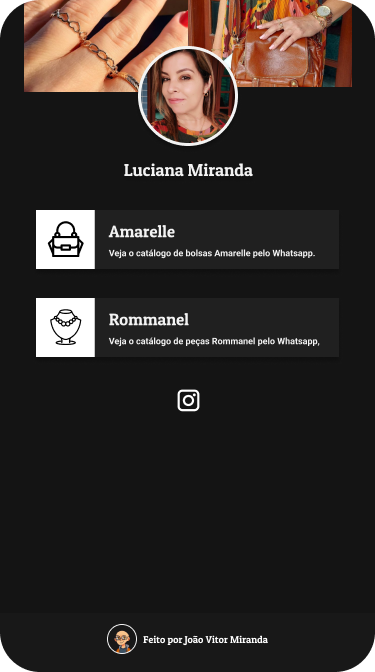
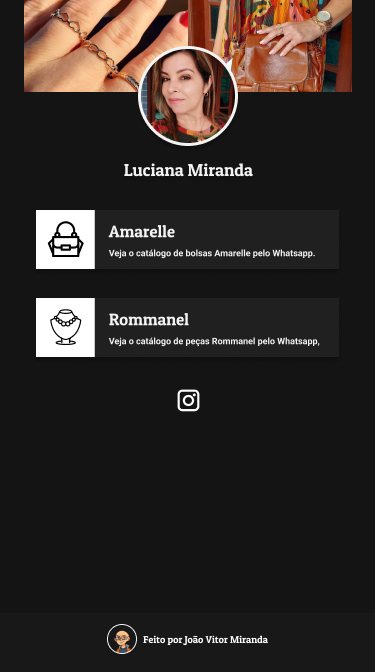
Responsive for Tablet and Desktop

diff --git a/style.css b/style.css
@@ -47,6 +47,7 @@ h1 {
     color: #F3F3F3;
     font-size: 18px;
     font-weight: 200;
+    text-shadow: 0px 4px 4px rgba(0, 0, 0, 0.25);
 }
 
 /* NAV */
@@ -65,6 +66,7 @@ a {
     display: flex;
     width: 303px;
     height: 59px;
+    filter: drop-shadow(0px 4px 4px rgba(0, 0, 0, 0.25));
 }
 
 .amarelle-link {
@@ -73,7 +75,7 @@ a {
 
 .icon-box {
     width: 59px;
-    height: 59px;
+    height: 100%;
     background-color: white;
     display: flex;
     justify-content: center;
@@ -87,7 +89,7 @@ a {
 
 .text-box {
     width: 246px;
-    height: 59px;
+    height: 100%;
     background-color: #202020;
     display: flex;
     flex-direction: column;
@@ -151,4 +153,86 @@ address {
     font-size: 10px;
     font-weight: 200;
     margin-left: 6px;
+}
+
+/* MEDIA QUERY FOR TABLET AND DESKTOP */
+@media (min-width: 550px) {
+    
+    /* HEADER */
+    .background-image-01, .background-image-02 {
+        width: 246px;
+        height: 138px;
+    }
+
+    .profile-picture {
+        width: 139px;
+        height: 139px;
+        top: 69px;
+        border: 4.17px solid #F3F3F3;
+    }
+
+    h1 {
+        margin-top: 83px;
+        font-size: 23.7782px;
+        font-weight: 200;
+    }
+
+    /* NAV */
+    .amarelle-link, .rommanel-link {
+        width: 414.82px;
+        height: 80.77px;
+    }
+
+    .icon-box {
+        width: 80.47px;
+    }
+
+    .purse-icon, .necklace-icon {
+        width: 48.86px;
+        height: 49.04px;
+    }
+
+    .text-box {
+        width: 337.22px;
+    }
+
+    .text {
+        padding-left: 22.03px;
+        padding-top: 15.39px;
+    }
+
+    #p1, #p3 {
+        font-size: 22.9924px;
+        margin-bottom: 10.58px;
+    }
+
+    #p2, #p4 {
+        font-size: 12.3214px;
+    }
+
+    .amarelle-link {
+        margin-bottom: 38.23px;
+    }
+
+    /* FOOTER */
+    .instagram-logo {
+        width: 62.98px;
+        height: 62.98px;
+    }
+
+    /* ADDRESS */
+    address {
+        height: 94.4px;
+    }
+
+    .authors-image {
+        width: 48px;
+        height: 48px;
+        border: 1.6px solid #F3F3F3;
+    }
+
+    #credits {
+        font-size: 16.0819px;
+        margin-left: 9.6px;
+    }
 }

diff --git a/index.html b/index.html
@@ -31,7 +31,7 @@
         </header>
 
         <nav class="links">
-            <a class="amarelle-link" href="">
+            <a class="amarelle-link" href="https://wa.me/message/DPXQJGOVG3XSP1">
                 <div class="icon-box">
                     <img class="purse-icon" src="images/purse-icon.png" alt="">
                 </div>
@@ -39,12 +39,12 @@
                 <div class="text-box">
                     <div class="text">
                         <p id="p1">Amarelle</p>
-                        <p id="p2">Veja o catálogo de bolsas Amarelle pelo Whatsapp.</p>
+                        <p id="p2">Peça os modelos de bolsas Amarelle pelo Whatsapp.</p>
                     </div>
                 </div>
             </a>
             
-            <a class="rommanel-link" href="">
+            <a class="rommanel-link" href="https://wa.me/message/DPXQJGOVG3XSP1">
                 <div class="icon-box">
                     <img class="necklace-icon" src="images/necklace-icon.png" alt="">
                 </div>
